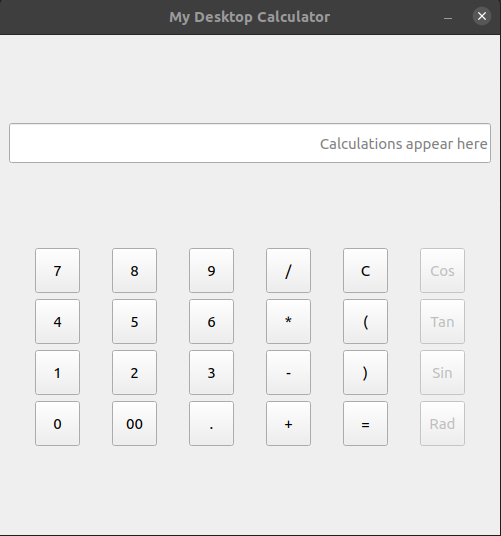
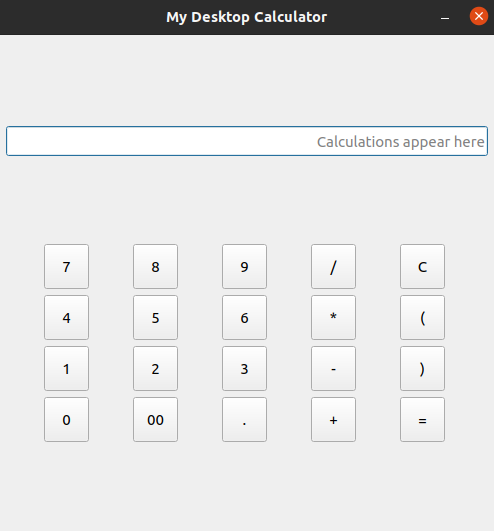
Hidden the trigonometric calculations buttons.

diff --git a/calculator.py b/calculator.py
@@ -75,10 +75,13 @@ class MyCalculatorUI(QMainWindow):
         # Button text mapped to location in the grid layout.
         buttons = {
             '7': (0, 0), '8': (0, 1), '9': (0, 2), '/': (0, 3), 'C': (0, 4),
-            'Cos': (0, 5), '4': (1, 0), '5': (1, 1), '6': (1, 2), '*': (1, 3),
-            '(': (1, 4), 'Tan': (1, 5), '1': (2, 0), '2': (2, 1), '3': (2, 2),
-            '-': (2, 3), ')': (2, 4), 'Sin': (2, 5), '0': (3, 0),
-            '00': (3, 1), '.': (3, 2), '+': (3, 3), '=': (3, 4), 'Rad': (3, 5),
+            # 'Cos': (0, 5),
+            '4': (1, 0), '5': (1, 1), '6': (1, 2), '*': (1, 3), '(': (1, 4),
+            # 'Tan': (1, 5),
+            '1': (2, 0), '2': (2, 1), '3': (2, 2), '-': (2, 3), ')': (2, 4),
+            # 'Sin': (2, 5),
+            '0': (3, 0), '00': (3, 1), '.': (3, 2), '+': (3, 3), '=': (3, 4),
+            # 'Rad': (3, 5),
         }
         # Add buttons to the grid
         for button_text, location in buttons.items():
